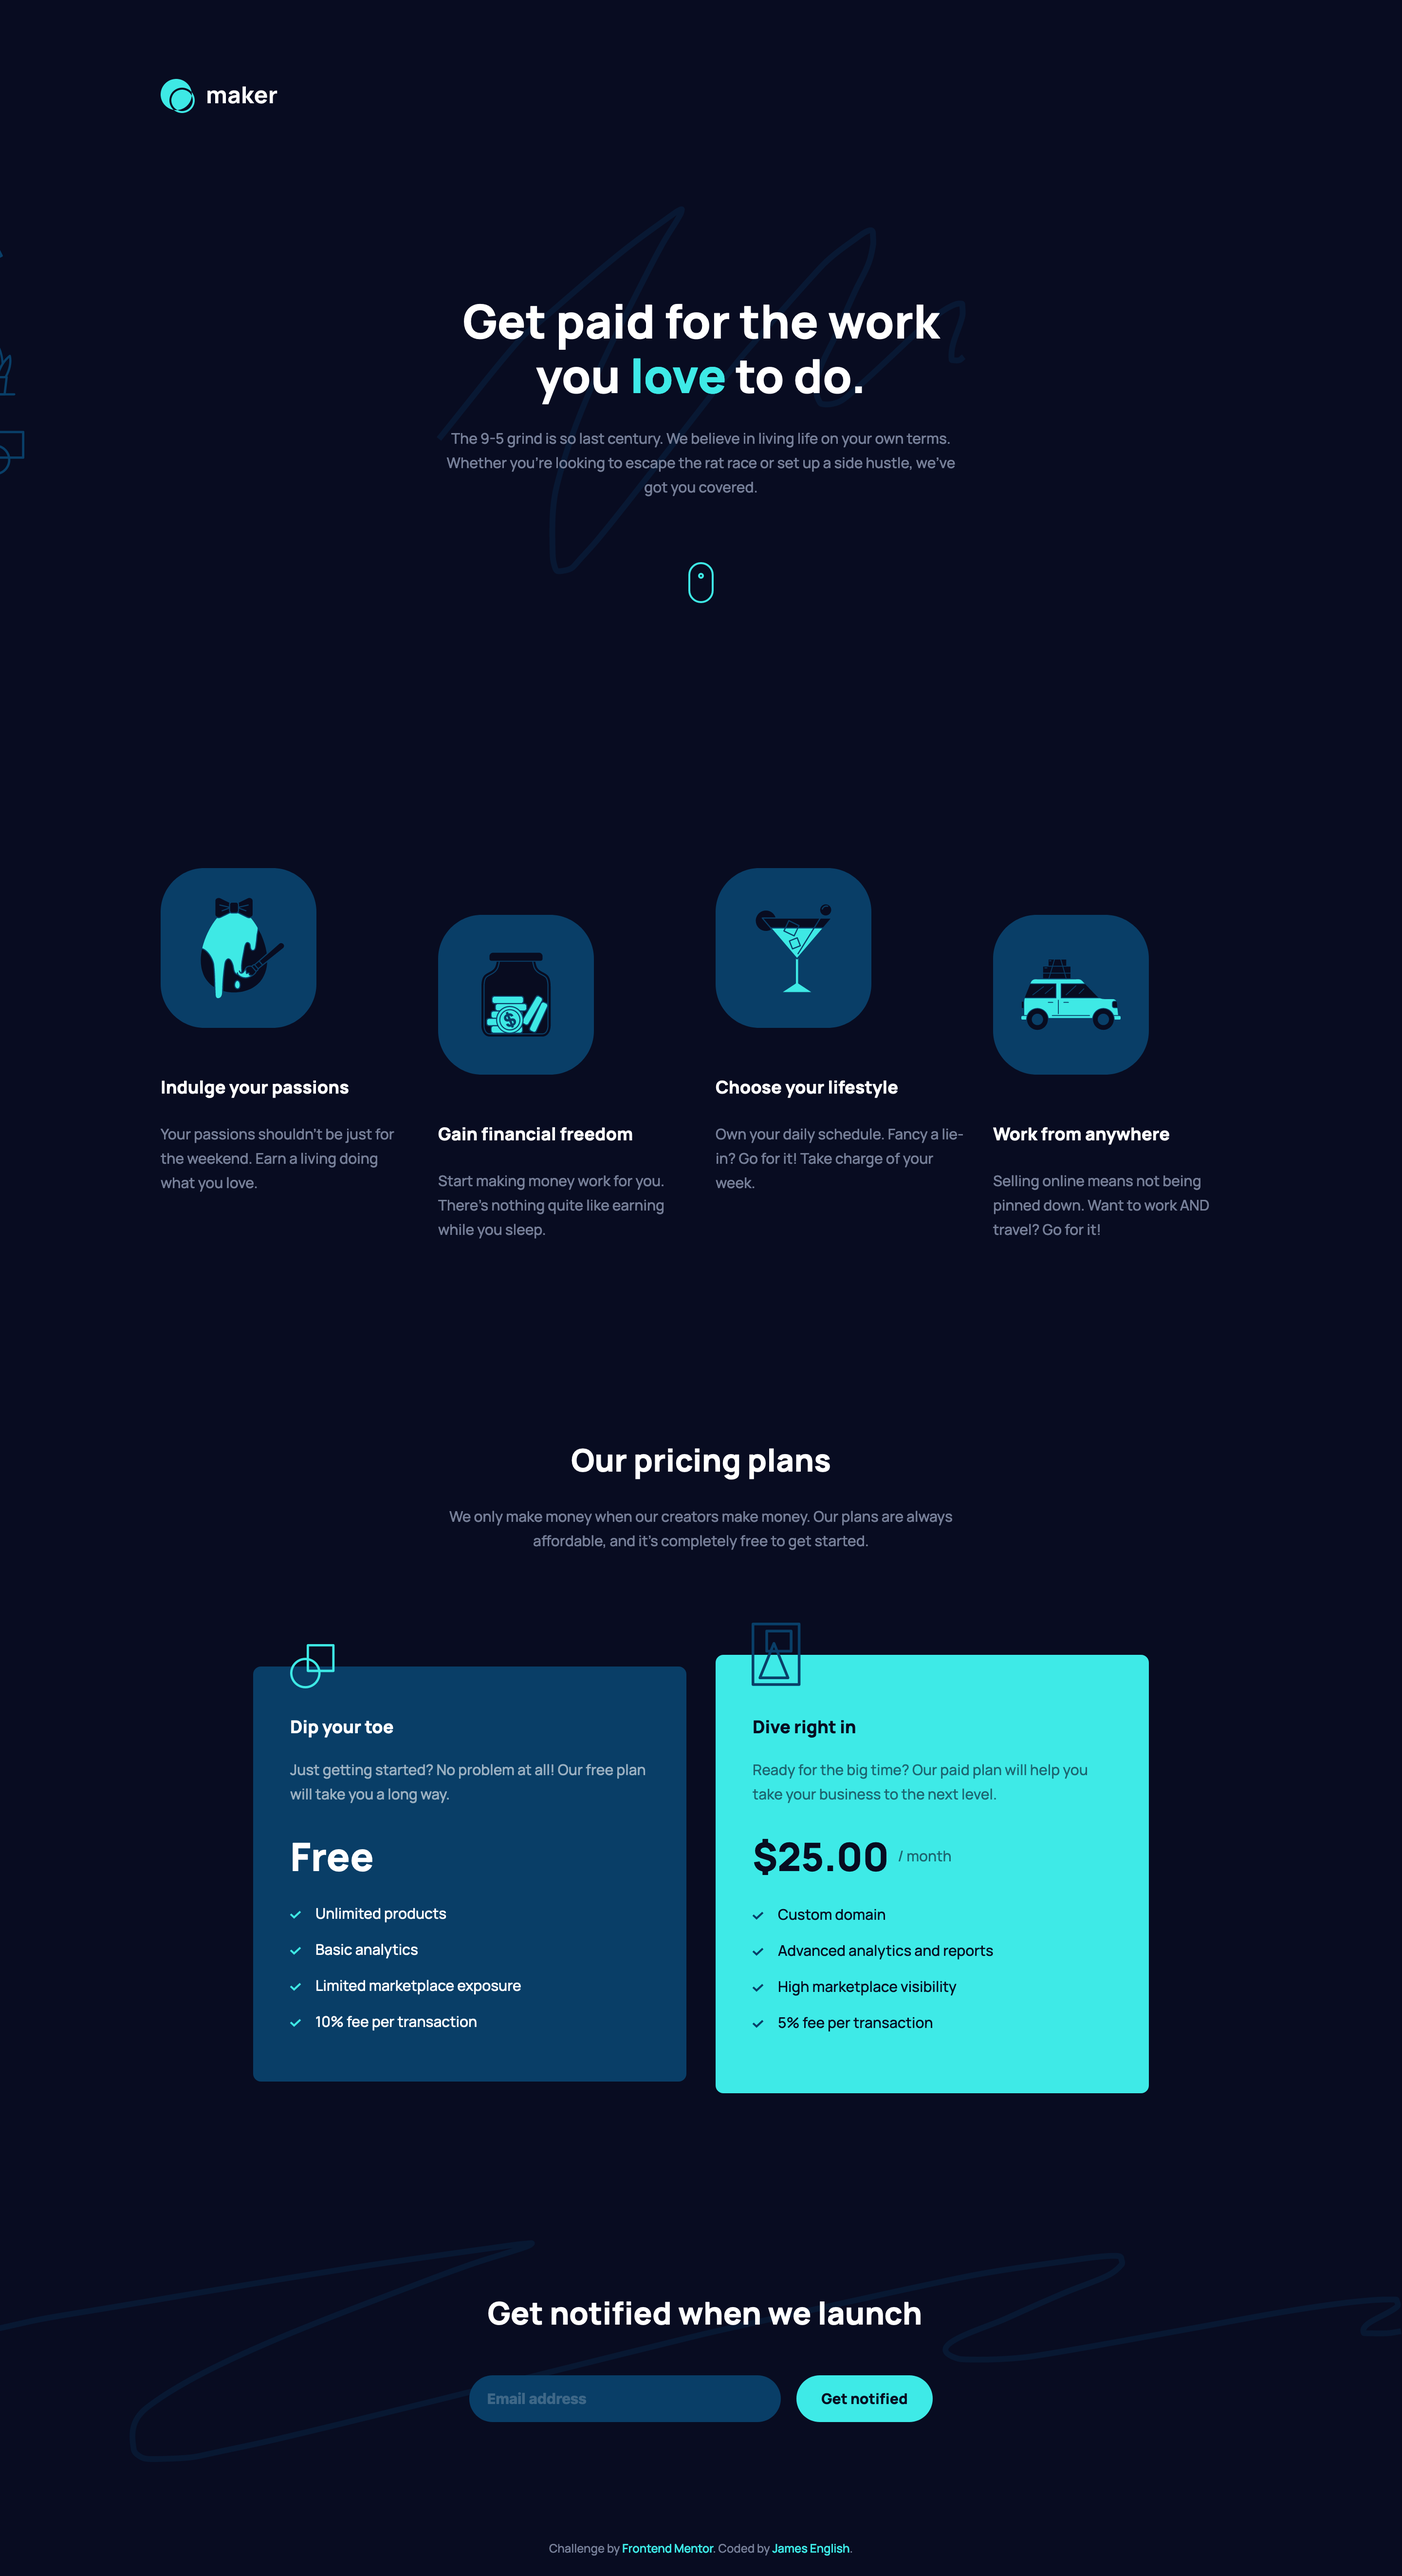
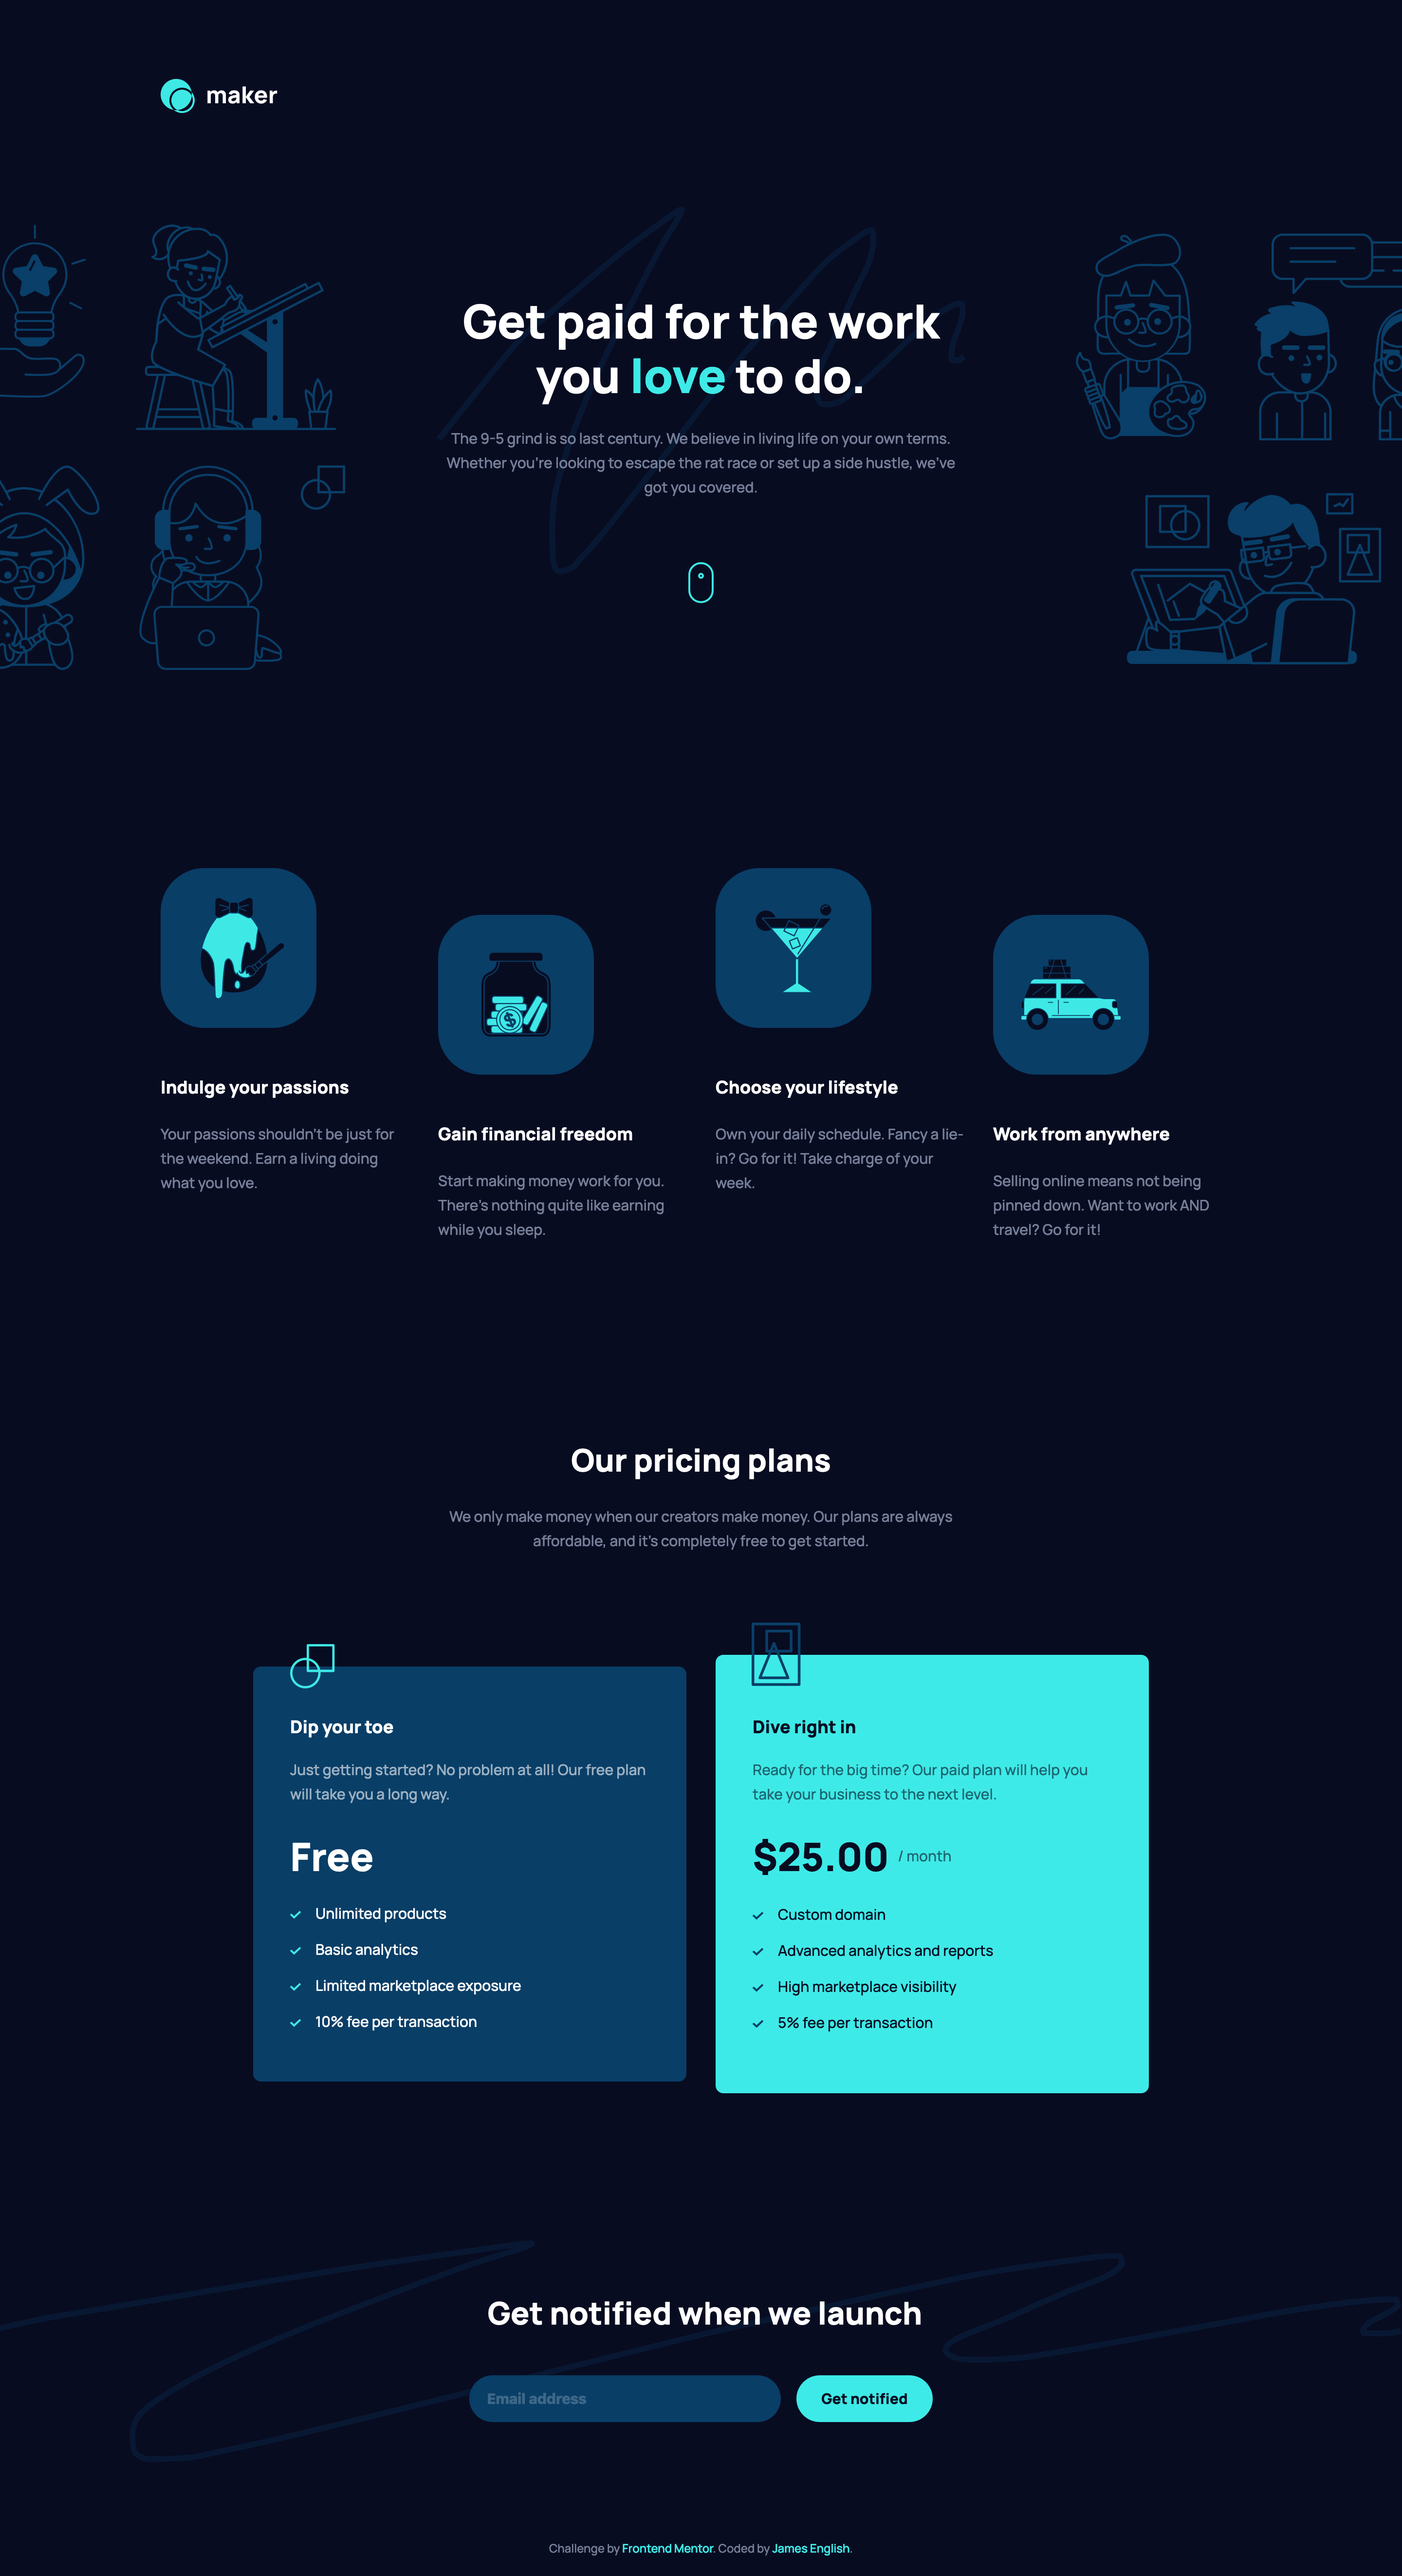
Add files via upload

diff --git a/main.css b/main.css
@@ -177,7 +177,7 @@ button {
 }
 @media (min-width: 1025px) {
   .header {
-    background-position: -37% 113.5px, center 130px, 138% 113.5px;
+    background-position: -5.1% 149px, center 130px, 105.8% 158px;
     background-size: 28.3333333333% auto, 37.7777777778% auto, 27.5% auto;
     margin: 81px 0 0;
     padding: 0 165px 70px;
